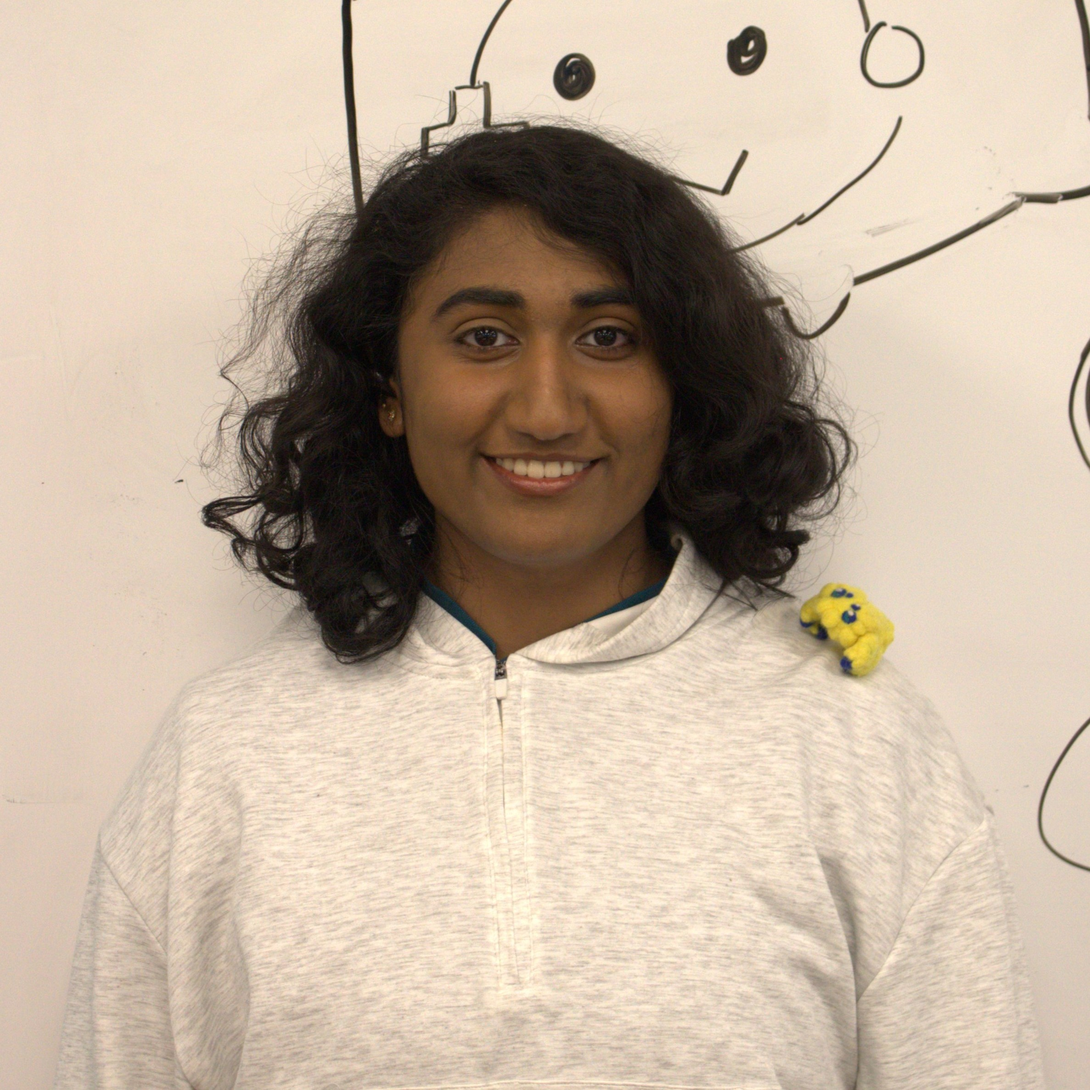
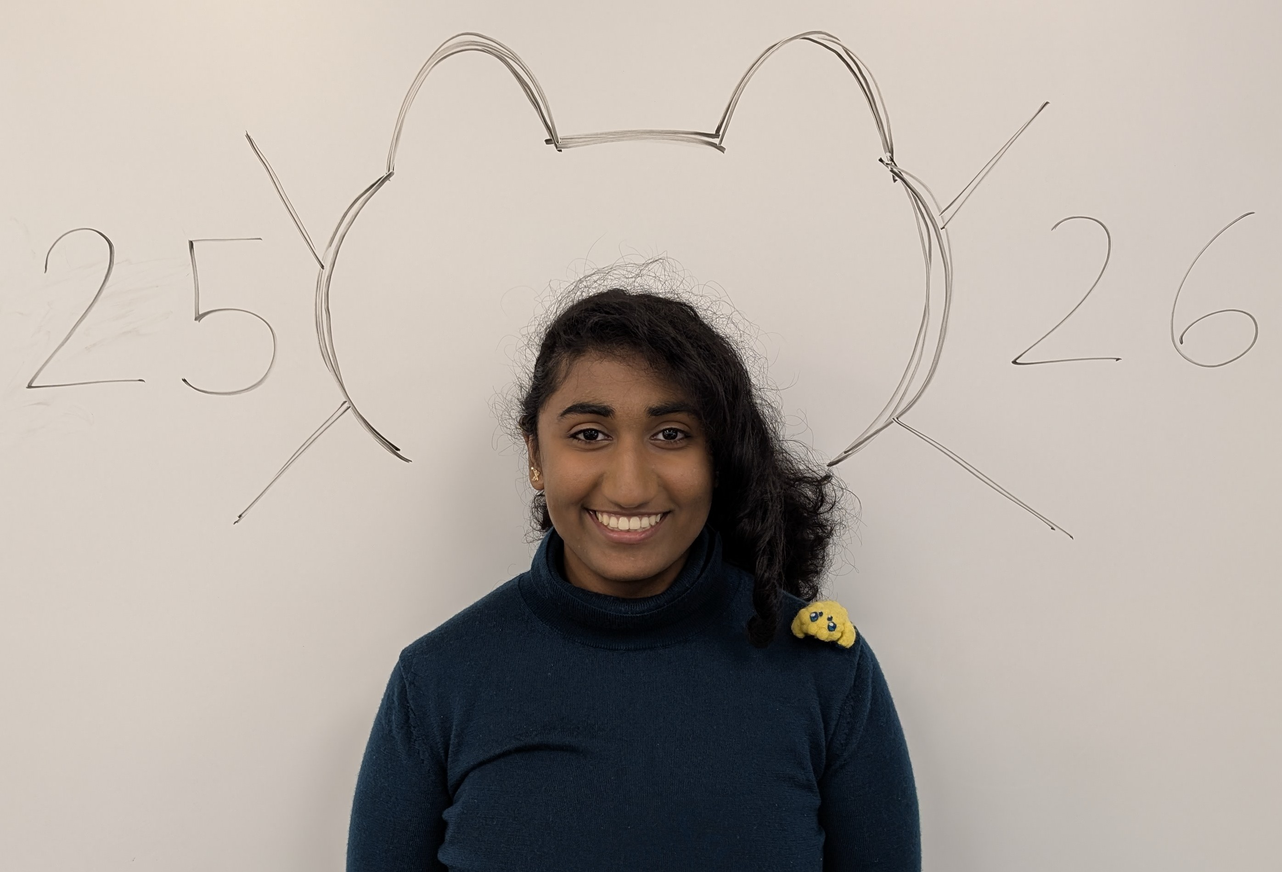
Updated headshots, footer, and respective image folder

diff --git a/website/src/components/About.js b/website/src/components/About.js
@@ -12,28 +12,30 @@ import { OBJLoader } from 'three/examples/jsm/loaders/OBJLoader';
 import qgdc_model from '../assets/qgdc.obj'
 
 // Headshots
+//co-chairs
+import Lillie from "../assets/images/headshots/Lillie.jpg";
+import Arlen from "../assets/images/headshots/Arlen.jpg";
+
 //website
-import Chris from "../assets/images/headshots/Chris_Gil.JPG"; // No longer in club (Delete later?)
-import Isaiah from "../assets/images/headshots/Isaiah.PNG"; // No longer in club
-import Abdullah from "../assets/images/headshots/Abdullah.jpg"; // No longer in club
-import Techmeng from "../assets/images/headshots/Techmeng.png"; // No longer in club
-import Renee from "../assets/images/headshots/Renee_Kim.webp"; // No longer in club
-import Lillie from "../assets/images/headshots/lillie.JPG";
+import Christian from "../assets/images/headshots/Christian.jpg";
+import Cayla from "../assets/images/headshots/Cayla.jpg";
+import Alex from "../assets/images/headshots/Alex.jpg";
+
 //finance
-import Sarah from "../assets/images/headshots/Sarah.png"; // No longer in club
-import Mitch from "../assets/images/headshots/Mitch.png";
+import Maia from "../assets/images/headshots/Maia.jpg";
+
 //marketing
-import Mehr from "../assets/images/headshots/Mehr.jpg"; // No longer in club 
-import Gabriel from "../assets/images/headshots/Gabriel.jpg"; // No longer in club
-import Basma from "../assets/images/headshots/Basma.JPG"; // No longer in club
-import Phoebe from "../assets/images/headshots/Phoebe.jpg";
 import Ananya from "../assets/images/headshots/Ananya.jpg";
-import Alyssa from "../assets/images/headshots/alyssa.JPG"; // No longer in club
+import Duncan from "../assets/images/headshots/Duncan.jpg";
+import Phoebe from "../assets/images/headshots/Phoebe.jpg";
+import Lauren from "../assets/images/headshots/Lauren.jpg";
+
+
 //events
-import Tracy from "../assets/images/headshots/Tracy.jpg"; // No longer in club
 import Rounika from "../assets/images/headshots/Rounika.jpg";
 import Vivian from "../assets/images/headshots/Vivian.jpg";
-import Arlen from "../assets/images/headshots/Arlen.jpg";
+import Ethan from "../assets/images/headshots/Ethan.jpg";
+import Leif from "../assets/images/headshots/Leif.jpg"; 
 
 //placeholder
 import temp from "../assets/images/headshots/temp_person.webp";
@@ -357,7 +359,7 @@ const About = () => {
         <div className='mx-auto sm:p-10 max-w-8xl '>
           <h2 className='pt-10 mb-10 text-3xl font-bold text-center text-white lg:text-7xl sm:text-5xl xs:text-4xl font-brick'>Our Team</h2>
           <div className='md:flex md:justify-center'>
-            <div className='grid grid-cols-1 md:grid-cols-2 justify-items-center gap-24'>
+            <div className='grid grid-cols-2 md:grid-cols-2 justify-items-center gap-24'>
               {/* CO-CHAIRS */}
               <Person name='Lillie Amos' title='Co-Chair' image={Lillie} />
               <Person name='Arlen Smith' title='Co-Chair' image={Arlen} />
@@ -380,9 +382,9 @@ const About = () => {
           {/* WEBSITE TEAM HEADSHOTS*/}
           {openSections.website && (
             <div className='grid grid-cols-1 md:grid-cols-3 lg:grid-cols-auto-fit justify-items-center gap-8'>
-              <Person name='Christian Fiorino' title='Website Director' image={temp} />
-              <Person name='Cayla Wong' title='Front-End Developer' image={temp} />
-              <Person name='Alex Georgiyev' title='Back-End Developer' image={temp} />
+              <Person name='Christian Fiorino' title='Website Director' image={Christian} />
+              <Person name='Cayla Wong' title='Front-End Developer' image={Cayla} />
+              <Person name='Alex Georgiyev' title='Back-End Developer' image={Alex} />
             </div>
           )}
 
@@ -401,12 +403,14 @@ const About = () => {
 
           {/* MARKETING TEAM HEADSHOTS*/}
           {openSections.marketing && (
-            <div className='grid grid-cols-2 md:grid-cols-2 lg:grid-cols-4 justify-items-center gap-8'>
-              <Person name='Ananya Kollipara' title='Marketing Director' image={Ananya} />
-              <Person name='Phoebe Chan' title='Graphic Designer' image={Phoebe} />
-              <Person name='Duncan Mahar' title='Social Media Manager' image={temp} />
-              <Person name='Lauren McQuat' title='Videographer ' image={temp} />
-            </div>
+            <><div className='grid grid-cols-2 md:grid-cols-2 lg:grid-cols-3 gap-8 place-items-center '>
+                <Person name='Ananya Kollipara' title='Marketing Director' image={Ananya} />
+                <Person name='Phoebe Chan' title='Graphic Designer' image={Phoebe} />
+                <Person name='Duncan Mahar' title='Social Media Manager' image={Duncan} />
+              </div><div className='grid grid-cols-2 md:grid-cols-2 lg:grid-cols-2 gap-0.1 place-items-center '>
+                  <Person name='Lauren McQuat' title='Videographer ' image={Lauren} />
+                  <Person name='Maia Turner' title='Finance Manager' image={Maia} />
+                </div></>
           )}
 
           {/* Events Section */}
@@ -427,12 +431,12 @@ const About = () => {
             <div className='grid grid-cols-2 md:grid-cols-2 lg:grid-cols-4 justify-items-center gap-8'>
               <Person name='Vivian Webster' title='Events Director' image={Vivian} />
               <Person name='Rounika Saxena' title='Events Coordinator' image={Rounika} />
-              <Person name='Ethan Xu' title='Events Coordinator' image={temp} />
-              <Person name='Leif Hill' title='Events Outreach' image={temp} />
+              <Person name='Ethan Xu' title='Events Coordinator' image={Ethan} />
+              <Person name='Leif Hill' title='Events Outreach' image={Leif} />
             </div>
           )}
 
-          {/* Finance Section */}
+          {/* Finance Section ********REMOVED********* 
           <div className="w-full">
             <div 
               className='w-full pt-10 mb-5 flex items-center justify-center cursor-pointer'
@@ -443,14 +447,19 @@ const About = () => {
               </h2>
               <span className='ml-4 text-white text-4xl'>{openSections.finance ? '▼' : '▶'}</span>
             </div>
-          </div>
+          </div>*
+          /}
+ 
 
-          {/* Finance TEAM HEADSHOTS*/}
-          {openSections.finance && (
+          {/* Finance TEAM SECTION REMOVED DUE TO THE TEAM ONLY BEING 1 PERSON*/}
+
+          {/* {openSections.finance && (
             <div className='grid grid-cols-1 md:grid-cols-1 lg:grid-cols-1 justify-items-center whitespace-nowrap'>
-              <Person name='Maia Turner' title='Finance Manager' image={Mitch} />
+              
             </div>
-          )}
+          )}  */}
+          {/* Finance TEAM HEADSHOTS*/}
+          
         </div>
       </section>
       </div>

diff --git a/website/src/components/Footer.js b/website/src/components/Footer.js
@@ -3,6 +3,8 @@ import discord_logo from "../assets/images/logos/discord_logo.svg";
 import instagram_logo from "../assets/images/logos/instagram_logo.svg";
 import youtube_logo from "../assets/images/logos/youtube_logo.svg";
 import linkedin_logo from "../assets/images/logos/linkedin_logo.svg";
+import itchio_logo from "../assets/images/logos/itchio_logo_black.svg";
+import linktree_logo from "../assets/images/logos/linktree_logo.png";
 
 function Footer() {
   return (
@@ -66,6 +68,33 @@ function Footer() {
                 src={linkedin_logo}
                 alt="Linkedin"
                 className="w-6 h-6 sm:w-8 sm:h-8"
+              />
+            </a> 
+            {/* Linktree */}
+            <a
+              href="https://linktr.ee/qugamedev?fbclid=PAZXh0bgNhZW0CMTEAc3J0YwZhcHBfaWQMMjU2MjgxMDQwNTU4AAGnl4NeRPEAf0UJ8Vc_SUn77zFwH9d9swl2bvOFHzowLWCUXfqGLgPTZuWy2Ns_aem_Ne8KIXpa7Su36dmIkZri5w&brid=npV0_85enfiMriXlHdSjDw"
+              target="_blank"
+              rel="noopener noreferrer"
+              className="transition-transform hover:scale-110"
+            >
+              <img
+                src={linktree_logo}
+                alt="Linktree"
+                className="w-6 h-6 sm:w-8 sm:h-8 rounded-md"
+              />
+            </a>
+
+            {/* itch.io */}
+            <a
+              href="https://itch.io/jam/qugamedev-game-jam-fall25"
+              target="_blank"
+              rel="noopener noreferrer"
+              className="transition-transform hover:scale-110"
+            >
+              <img
+                src={itchio_logo}
+                alt="itch.io"
+                className="w-6 h-6 sm:w-8 sm:h-8 rounded-md"
               />
             </a>
           </div>
